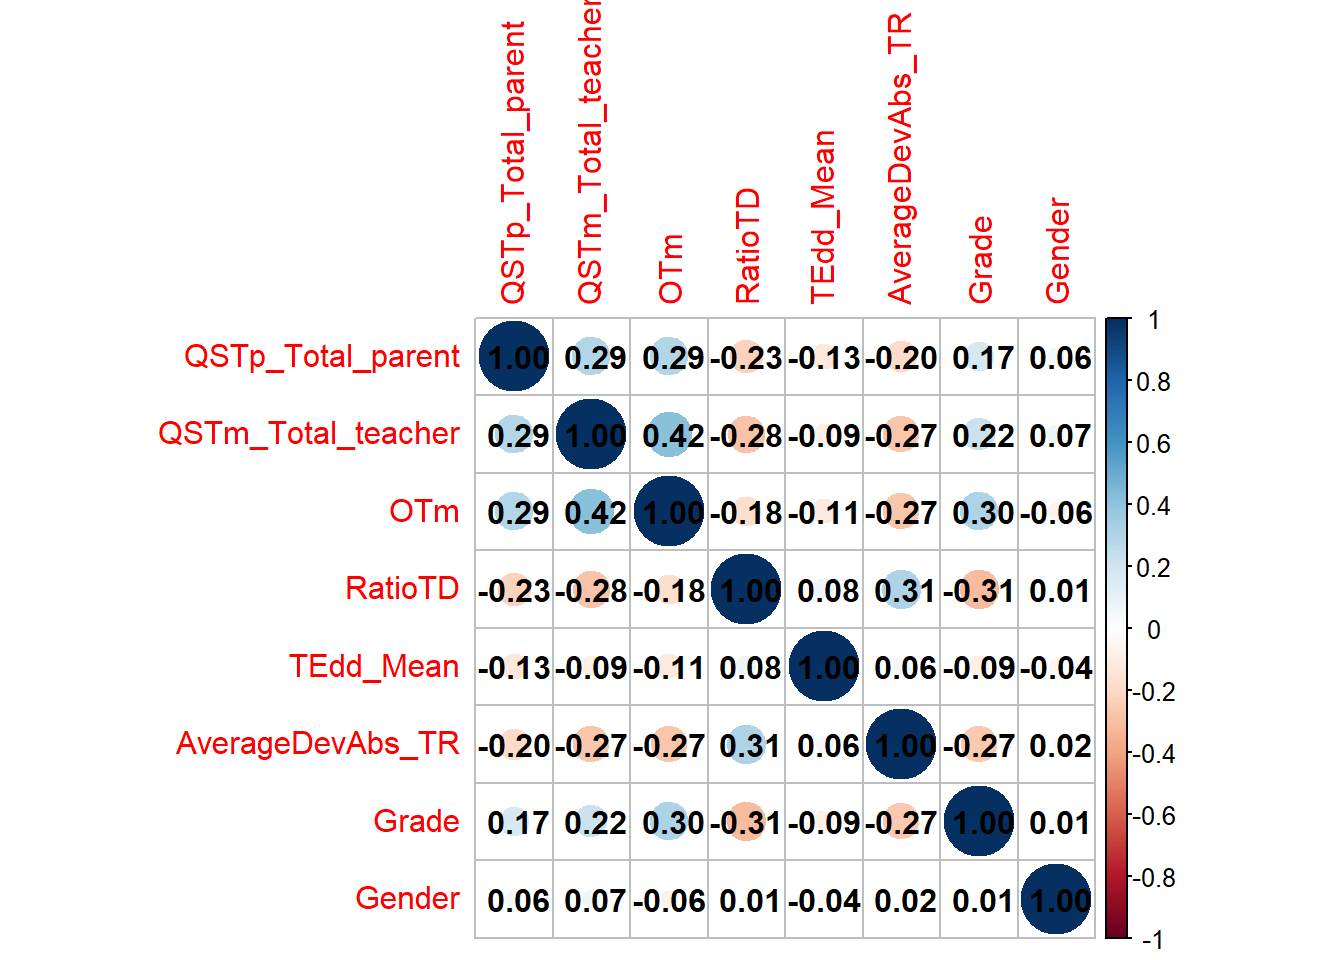
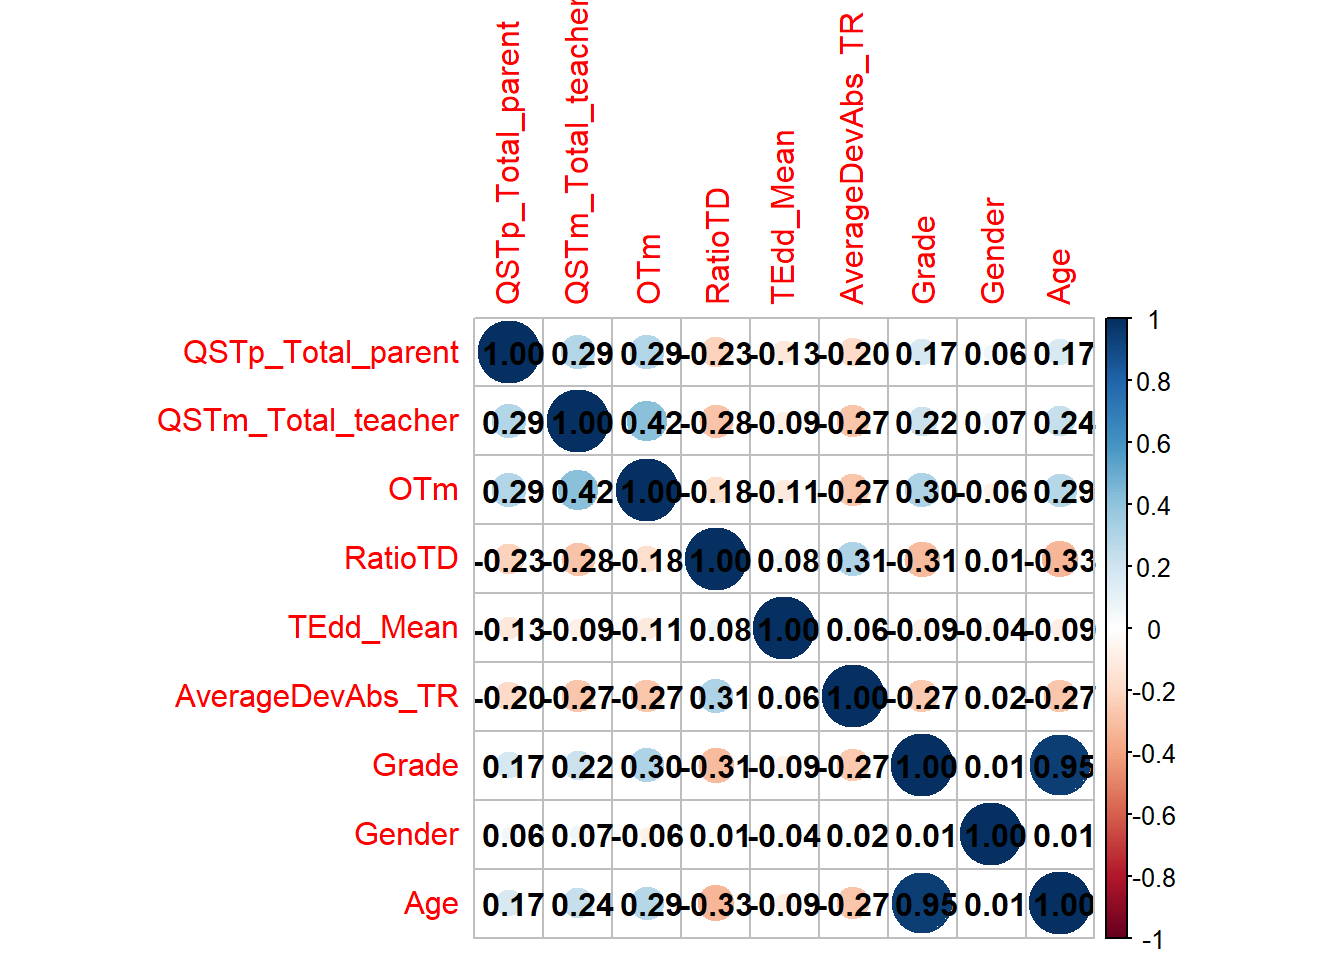
report update

Changed region(s): [[0.0938, 0.0, 0.8125, 0.9688], [0.7812, 0.2188, 0.8125, 0.3125], [0.3438, 0.1875, 0.375, 0.2188]]

diff --git a/R/report.html b/R/report.html
@@ -154,7 +154,7 @@ pre > code.sourceCode > span > a:first-child::before { text-decoration: underlin
 <h1>Scales analysis</h1>
 <section id="time-sense-parents" class="level2">
 <h2 class="anchored" data-anchor-id="time-sense-parents">Time sense parents</h2>
-<p>Parents responded to 10 items regarding their children sense of time. The items were on a 4-point Likert scale and, as clear from <a href="#fig-qst-parents" class="quarto-xref">Figure&nbsp;1</a>, the response distribution was extremely skewed with parents almost never reporting extremely high negative values.</p>
+<p>Parents responded to 10 items regarding their children sense of time. The items were on a 4-point Likert scale (0-3) and, as clear from <a href="#fig-qst-parents" class="quarto-xref">Figure&nbsp;1</a>, the response distribution was extremely skewed with parents almost never reporting extremely high negative values.</p>
 <div class="cell">
 <div class="sourceCode cell-code" id="cb12"><pre class="sourceCode r code-with-copy"><code class="sourceCode r"><span id="cb12-1"><a href="#cb12-1" aria-hidden="true" tabindex="-1"></a>var <span class="ot">=</span> <span class="st">"QSTpadua_parent"</span></span>
 <span id="cb12-2"><a href="#cb12-2" aria-hidden="true" tabindex="-1"></a>items <span class="ot">=</span> dd<span class="sc">$</span>Var_name[dd<span class="sc">$</span>Level<span class="sc">==</span><span class="st">"item"</span><span class="sc">&amp;</span>dd<span class="sc">$</span>ScaleName<span class="sc">==</span>var]</span>
@@ -672,7 +672,7 @@ Figure&nbsp;8
 <div class="sourceCode cell-code" id="cb88"><pre class="sourceCode r code-with-copy"><code class="sourceCode r"><span id="cb88-1"><a href="#cb88-1" aria-hidden="true" tabindex="-1"></a>dcor <span class="ot">&lt;-</span> <span class="fu">subset</span>(df, <span class="at">select =</span> <span class="fu">c</span>(QSTp_Total_parent, QSTm_Total_teacher,</span>
 <span id="cb88-2"><a href="#cb88-2" aria-hidden="true" tabindex="-1"></a>                              OTm, RatioTD,</span>
 <span id="cb88-3"><a href="#cb88-3" aria-hidden="true" tabindex="-1"></a>                              TEdd_Mean, AverageDevAbs_TR,</span>
-<span id="cb88-4"><a href="#cb88-4" aria-hidden="true" tabindex="-1"></a>                              Grade, Gender))</span>
+<span id="cb88-4"><a href="#cb88-4" aria-hidden="true" tabindex="-1"></a>                              Grade, Gender,Age))</span>
 <span id="cb88-5"><a href="#cb88-5" aria-hidden="true" tabindex="-1"></a><span class="co"># dcor$AverageDevAbs_TR &lt;- normalize(dcor$AverageDevAbs_TR)</span></span>
 <span id="cb88-6"><a href="#cb88-6" aria-hidden="true" tabindex="-1"></a>corrplot<span class="sc">::</span><span class="fu">corrplot</span>(<span class="fu">cor</span>(dcor, <span class="at">use =</span> <span class="st">"pairwise.complete"</span>), <span class="at">addCoef.col =</span> <span class="st">"black"</span>)</span></code><button title="Copy to Clipboard" class="code-copy-button"><i class="bi"></i></button></pre></div>
 <div class="cell-output-display">
@@ -691,7 +691,7 @@ Figure&nbsp;9
 <p>However, the scales are generally skewed (<a href="#fig-raw-tot" class="quarto-xref">Figure&nbsp;10</a>). Hence, we normalized them (see <a href="#fig-norm-tot" class="quarto-xref">Figure&nbsp;11</a>) and calculated the correlations again.</p>
 <div class="cell">
 <div class="sourceCode cell-code" id="cb89"><pre class="sourceCode r code-with-copy"><code class="sourceCode r"><span id="cb89-1"><a href="#cb89-1" aria-hidden="true" tabindex="-1"></a>df_melted_raw <span class="ot">&lt;-</span> <span class="fu">melt</span>(dcor, </span>
-<span id="cb89-2"><a href="#cb89-2" aria-hidden="true" tabindex="-1"></a>                  <span class="at">id.vars =</span> <span class="fu">c</span>(<span class="st">"Grade"</span>, <span class="st">"Gender"</span>))</span>
+<span id="cb89-2"><a href="#cb89-2" aria-hidden="true" tabindex="-1"></a>                  <span class="at">id.vars =</span> <span class="fu">c</span>(<span class="st">"Grade"</span>, <span class="st">"Gender"</span>,<span class="st">"Age"</span>))</span>
 <span id="cb89-3"><a href="#cb89-3" aria-hidden="true" tabindex="-1"></a></span>
 <span id="cb89-4"><a href="#cb89-4" aria-hidden="true" tabindex="-1"></a><span class="fu">ggplot</span>(df_melted_raw, <span class="fu">aes</span>(<span class="at">x =</span> value)) <span class="sc">+</span></span>
 <span id="cb89-5"><a href="#cb89-5" aria-hidden="true" tabindex="-1"></a>  <span class="fu">geom_histogram</span>(<span class="at">bins =</span> <span class="dv">100</span>, <span class="at">fill =</span> <span class="st">"orange"</span>, <span class="at">color =</span> <span class="st">"black"</span>) <span class="sc">+</span></span>
@@ -743,7 +743,7 @@ Figure&nbsp;11
 </div>
 </div>
 </div>
-<p>The correlations were almost identical, however, the time estimation score is nor well correlated with the other factors (<a href="#fig-norm-cor" class="quarto-xref">Figure&nbsp;12</a>).</p>
+<p>The correlations are almost identical, however, the time estimation score is now well correlated with the other factors (<a href="#fig-norm-cor" class="quarto-xref">Figure&nbsp;12</a>).</p>
 <div class="cell">
 <div class="sourceCode cell-code" id="cb93"><pre class="sourceCode r code-with-copy"><code class="sourceCode r"><span id="cb93-1"><a href="#cb93-1" aria-hidden="true" tabindex="-1"></a>dcor2 <span class="ot">&lt;-</span> df[,<span class="fu">c</span>(totalNorm,<span class="st">"Grade"</span>,<span class="st">"Gender"</span>)]</span>
 <span id="cb93-2"><a href="#cb93-2" aria-hidden="true" tabindex="-1"></a>corrplot<span class="sc">::</span><span class="fu">corrplot</span>(<span class="fu">cor</span>(dcor2, <span class="at">use =</span> <span class="st">"pairwise.complete"</span>), <span class="at">addCoef.col =</span> <span class="st">"black"</span>)</span></code><button title="Copy to Clipboard" class="code-copy-button"><i class="bi"></i></button></pre></div>
@@ -884,7 +884,7 @@ Variances:
 </section>
 <section id="time-trends" class="level1">
 <h1>Time trends</h1>
-<p>Across primary schools, we expect the time scores to increase, possibly linearly, but probably not. <a href="#fig-trend-raw" class="quarto-xref">Figure&nbsp;13</a> shows the age trend of the six scales:</p>
+<p>Across primary schools, we expect the time scores to increase, possibly linearly, but probably not. <a href="#fig-trend-raw" class="quarto-xref">Figure&nbsp;13</a> shows the grade trend of the six scales, while <a href="#fig-age-trend-raw" class="quarto-xref">Figure&nbsp;14</a> shows the continuous age trend:</p>
 <div class="cell">
 <div class="sourceCode cell-code" id="cb106"><pre class="sourceCode r code-with-copy"><code class="sourceCode r"><span id="cb106-1"><a href="#cb106-1" aria-hidden="true" tabindex="-1"></a><span class="fu">ggplot</span>(df_melted_raw, <span class="fu">aes</span>(<span class="at">y =</span> value, <span class="at">x =</span> Grade)) <span class="sc">+</span></span>
 <span id="cb106-2"><a href="#cb106-2" aria-hidden="true" tabindex="-1"></a>  <span class="fu">geom_smooth</span>() <span class="sc">+</span> </span>
@@ -897,6 +897,23 @@ Variances:
 </div>
 <figcaption class="quarto-float-caption-bottom quarto-float-caption quarto-float-fig quarto-uncaptioned" id="fig-trend-raw-caption-0ceaefa1-69ba-4598-a22c-09a6ac19f8ca">
 Figure&nbsp;13
+</figcaption>
+</figure>
+</div>
+</div>
+</div>
+<div class="cell">
+<div class="sourceCode cell-code" id="cb107"><pre class="sourceCode r code-with-copy"><code class="sourceCode r"><span id="cb107-1"><a href="#cb107-1" aria-hidden="true" tabindex="-1"></a><span class="fu">ggplot</span>(df_melted_raw, <span class="fu">aes</span>(<span class="at">y =</span> value, <span class="at">x =</span> Age)) <span class="sc">+</span></span>
+<span id="cb107-2"><a href="#cb107-2" aria-hidden="true" tabindex="-1"></a>  <span class="fu">geom_smooth</span>() <span class="sc">+</span> </span>
+<span id="cb107-3"><a href="#cb107-3" aria-hidden="true" tabindex="-1"></a>  <span class="fu">facet_wrap</span>(<span class="sc">~</span>variable, <span class="at">ncol =</span> <span class="dv">3</span>, <span class="at">scales =</span> <span class="st">"free"</span>)</span></code><button title="Copy to Clipboard" class="code-copy-button"><i class="bi"></i></button></pre></div>
+<div class="cell-output-display">
+<div id="fig-age-trend-raw" class="quarto-float quarto-figure quarto-figure-center anchored" width="672">
+<figure class="quarto-float quarto-float-fig figure">
+<div aria-describedby="fig-age-trend-raw-caption-0ceaefa1-69ba-4598-a22c-09a6ac19f8ca">
+<img src="report_files/figure-html/fig-age-trend-raw-1.png" id="fig-age-trend-raw" class="img-fluid figure-img" width="672">
+</div>
+<figcaption class="quarto-float-caption-bottom quarto-float-caption quarto-float-fig quarto-uncaptioned" id="fig-age-trend-raw-caption-0ceaefa1-69ba-4598-a22c-09a6ac19f8ca">
+Figure&nbsp;14
 </figcaption>
 </figure>
 </div>
